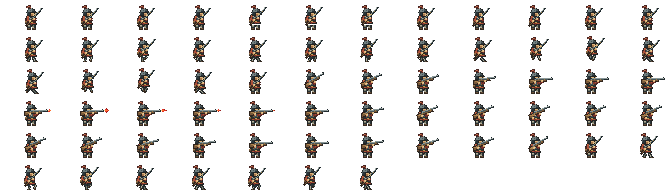
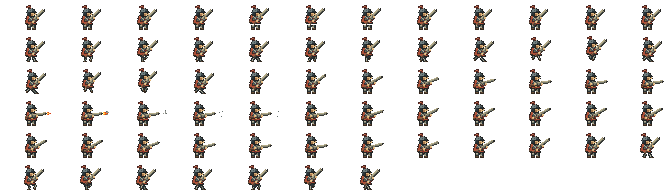
feat: new long handcannon musket visuals + fix release accounting (#27 correction)
v9.14.23 版本账更正：新长火铳美术（Codex handcannon-integration-20260922
的 67 帧动作+7×3 短尾焰弹丸+新枪架/掉落道具贴图+五帧枪口焰）此前只存
在于 Codex 工作树未提交改动中，未随 7 个 PR 合并进入 v9.14.23——本
提交将其正式入账。

- MusketeerAtlas.png / MusketeerBullet.png / MusketeerGun.png（二进制资产）
- MusketeerAnimation.cs（67 帧动作表+Aim 枪口 (47,17)+后坐 (46,17)）
- MusketeerCombat.cs（弹丸 7×3/pivot 弹头中心/短尾焰为静态纯视觉）
- musketeer-runtime 套件 111/0 验证（AnimationTests+CombatTests+Fixture 同步）

版本 9.14.24（patch +1=发布账目更正）。

diff --git a/il2cpp/MusketeerAnimation.cs b/il2cpp/MusketeerAnimation.cs
@@ -1,6 +1,6 @@
 // 火铳手·自有动画状态（runtime slice，纯逻辑：无 Unity 依赖、无原生调用、无分配）。
 //
-// 权威数据 = artifacts/musketeer/20260917-red-muzzle/atlas.json（用户已确认 v8 外观 + 红焰 5 帧，67 帧 12x6、
+// 权威数据 = artifacts/musketeer-long-handcannon-20260922/v6-final/atlas.json（用户已确认长火铳外观 + 参考 GIF 短焰散烟 5 帧，67 帧 12x6、
 // 单格 56x32、PPU 32、脚点 pivot (31,2)）。本文件把清单里的帧区间/时长/holds/锚点抄成
 // 编译期常量（"copied approved keys, not missing anchors"：67 个 key 的 rearGrip/frontGrip/
 // muzzle/torsoLift 全部在表里，测试逐项与清单值核对）。
@@ -12,7 +12,7 @@
 //   动作真实进入/控制器替换时重置采样原点；非法采样（NaN/±Inf/无 clip 长度）→ 挂起自有渲染。
 // * Idle：elapsed-native-stand-seconds；Idleness=0（原生 Stand 相位冻结）时不累计。
 // * fire：确认真实射击时刻 t0 → 显示 Fire 0.25s（后坐含在 clip 内，不是单独动作），
-//   出膛位置取「已举枪」的 Aim muzzle 像素 [48,14]，不用动画帧。
+//   出膛位置取「已举枪」的 Aim muzzle 像素 [47,17]，不用动画帧。
 // * reload：t0+0.25 起；window = min(1.4, max(0, nextEligibleShotTime-(t0+0.25)))；
 //   authoredSeconds = clamp((now-t0-0.25)/window,0,1)×1.4；window=0 直接跳过 Reload；
 //   Reload 完成停在 Aim。动画绝不缩短或延长玩法冷却（冷却由 runtime 的显式时间闸决定）。
@@ -113,7 +113,7 @@ internal readonly struct MusketeerAnchor
     internal byte TorsoLift { get; }
 }
 
-/// <summary>atlas 布局与时钟常量（artifacts/musketeer/20260917-red-muzzle/atlas.json，v8 定稿）。</summary>
+/// <summary>atlas 布局与时钟常量（artifacts/musketeer-long-handcannon-20260922/v6-final/atlas.json，长火铳定稿）。</summary>
 internal static class MusketeerAtlas
 {
     internal const int Columns = 12;
@@ -142,9 +142,9 @@ internal static class MusketeerAtlas
     internal const int LowerFirstFrame = 53;
     internal const int RetreatFirstFrame = 59;
 
-    /// <summary>已举枪枪口像素（Aim key [48,14]）：出膛原点来源，绝不使用动画帧或原生 2.5 偏移。</summary>
-    internal const int PreparedMuzzlePixelX = 48;
-    internal const int PreparedMuzzlePixelY = 14;
+    /// <summary>已举枪枪口像素（Aim key [47,17]）：出膛原点来源，绝不使用动画帧或原生 2.5 偏移。</summary>
+    internal const int PreparedMuzzlePixelX = 47;
+    internal const int PreparedMuzzlePixelY = 17;
 
     /// <summary>以真实游戏秒为单位的枪械动作时长（清单 duration）。</summary>
     internal const double FireSeconds = 0.25;
@@ -180,86 +180,95 @@ internal static class MusketeerAtlas
 
     /// <summary>
     /// 67 个 key 的锚点（清单逐帧值，按帧号 0..66 升序）。索引即 atlas 帧号。
-    /// 运行时只用到 [48,14]（已举枪枪口）与 torsoLift；其余是契约完整性（测试核对清单值）。
+    /// 运行时只用到 [47,17]（已举枪枪口）与 torsoLift；其余是契约完整性（测试核对清单值）。
     /// </summary>
     internal static readonly MusketeerAnchor[] Anchors =
     {
         // Idle 0..11
-        new MusketeerAnchor(29, 20, 33, 18, 41, 8, 0),
-        new MusketeerAnchor(29, 20, 33, 18, 41, 8, 0),
-        new MusketeerAnchor(29, 20, 33, 18, 41, 8, 0),
-        new MusketeerAnchor(29, 20, 33, 18, 41, 8, 0),
-        new MusketeerAnchor(29, 19, 33, 17, 41, 7, 1),
-        new MusketeerAnchor(29, 19, 33, 17, 41, 7, 1),
-        new MusketeerAnchor(29, 19, 33, 17, 41, 7, 1),
-        new MusketeerAnchor(29, 20, 33, 18, 41, 8, 0),
-        new MusketeerAnchor(28, 20, 32, 18, 40, 8, 0),
-        new MusketeerAnchor(28, 20, 32, 18, 40, 8, 0),
-        new MusketeerAnchor(29, 20, 33, 18, 41, 8, 0),
-        new MusketeerAnchor(29, 20, 33, 18, 41, 8, 0),
+        new MusketeerAnchor(32, 21, 37, 17, 44, 9, 0),
+        new MusketeerAnchor(32, 21, 37, 17, 44, 9, 0),
+        new MusketeerAnchor(32, 21, 37, 17, 44, 9, 0),
+        new MusketeerAnchor(32, 21, 37, 17, 44, 9, 0),
+        new MusketeerAnchor(32, 20, 37, 16, 44, 8, 1),
+        new MusketeerAnchor(32, 20, 37, 16, 44, 8, 1),
+        new MusketeerAnchor(32, 20, 37, 16, 44, 8, 1),
+        new MusketeerAnchor(32, 21, 37, 17, 44, 9, 0),
+        new MusketeerAnchor(31, 21, 36, 17, 43, 9, 0),
+        new MusketeerAnchor(31, 21, 36, 17, 43, 9, 0),
+        new MusketeerAnchor(32, 21, 37, 17, 44, 9, 0),
+        new MusketeerAnchor(32, 21, 37, 17, 44, 9, 0),
+
         // Walk 12..19
-        new MusketeerAnchor(29, 20, 33, 18, 41, 8, 0),
-        new MusketeerAnchor(29, 20, 33, 18, 41, 8, 0),
-        new MusketeerAnchor(30, 19, 34, 17, 42, 7, 1),
-        new MusketeerAnchor(29, 20, 33, 18, 41, 8, 0),
-        new MusketeerAnchor(29, 20, 33, 18, 41, 8, 0),
-        new MusketeerAnchor(29, 20, 33, 18, 41, 8, 0),
-        new MusketeerAnchor(28, 19, 32, 17, 40, 7, 1),
-        new MusketeerAnchor(29, 20, 33, 18, 41, 8, 0),
+        new MusketeerAnchor(32, 21, 37, 17, 44, 9, 0),
+        new MusketeerAnchor(32, 21, 37, 17, 44, 9, 0),
+        new MusketeerAnchor(33, 20, 38, 16, 45, 8, 1),
+        new MusketeerAnchor(32, 21, 37, 17, 44, 9, 0),
+        new MusketeerAnchor(32, 21, 37, 17, 44, 9, 0),
+        new MusketeerAnchor(32, 21, 37, 17, 44, 9, 0),
+        new MusketeerAnchor(31, 20, 36, 16, 43, 8, 1),
+        new MusketeerAnchor(32, 21, 37, 17, 44, 9, 0),
+
         // Run 20..27
-        new MusketeerAnchor(30, 20, 34, 18, 42, 8, 0),
-        new MusketeerAnchor(31, 19, 35, 17, 43, 7, 1),
-        new MusketeerAnchor(31, 18, 35, 16, 43, 6, 2),
-        new MusketeerAnchor(30, 20, 34, 18, 42, 8, 0),
-        new MusketeerAnchor(30, 20, 34, 18, 42, 8, 0),
-        new MusketeerAnchor(29, 19, 33, 17, 41, 7, 1),
-        new MusketeerAnchor(29, 18, 33, 16, 41, 6, 2),
-        new MusketeerAnchor(30, 20, 34, 18, 42, 8, 0),
+        new MusketeerAnchor(33, 21, 38, 17, 45, 9, 0),
+        new MusketeerAnchor(34, 20, 39, 16, 46, 8, 1),
+        new MusketeerAnchor(34, 19, 39, 15, 46, 7, 2),
+        new MusketeerAnchor(33, 21, 38, 17, 45, 9, 0),
+        new MusketeerAnchor(33, 21, 38, 17, 45, 9, 0),
+        new MusketeerAnchor(32, 20, 37, 16, 44, 8, 1),
+        new MusketeerAnchor(32, 19, 37, 15, 44, 7, 2),
+        new MusketeerAnchor(33, 21, 38, 17, 45, 9, 0),
+
         // Raise 28..33
-        new MusketeerAnchor(29, 20, 33, 18, 41, 8, 0),
-        new MusketeerAnchor(29, 19, 34, 17, 43, 9, 0),
-        new MusketeerAnchor(29, 19, 35, 17, 44, 10, 0),
-        new MusketeerAnchor(30, 18, 35, 16, 46, 11, 0),
-        new MusketeerAnchor(30, 18, 36, 16, 47, 12, 0),
-        new MusketeerAnchor(30, 17, 37, 16, 48, 14, 0),
+        new MusketeerAnchor(32, 21, 37, 17, 44, 9, 0),
+        new MusketeerAnchor(32, 21, 38, 17, 45, 10, 0),
+        new MusketeerAnchor(31, 20, 38, 18, 46, 12, 0),
+        new MusketeerAnchor(31, 20, 38, 18, 47, 13, 0),
+        new MusketeerAnchor(30, 20, 37, 19, 47, 15, 0),
+        new MusketeerAnchor(30, 19, 37, 19, 47, 17, 0),
+
         // Aim 34..35
-        new MusketeerAnchor(30, 17, 37, 16, 48, 14, 0),
-        new MusketeerAnchor(30, 17, 37, 16, 48, 14, 0),
-        // Fire 36..40（第 5 帧 = old39 的 Aim 锚点副本；红焰 5 帧、每帧 0.05s）
-        new MusketeerAnchor(29, 17, 36, 16, 47, 14, 0),
-        new MusketeerAnchor(29, 17, 36, 16, 47, 14, 0),
-        new MusketeerAnchor(30, 17, 37, 16, 48, 14, 0),
-        new MusketeerAnchor(30, 17, 37, 16, 48, 14, 0),
-        new MusketeerAnchor(30, 17, 37, 16, 48, 14, 0),
+        new MusketeerAnchor(30, 19, 37, 19, 47, 17, 0),
+        new MusketeerAnchor(30, 19, 37, 19, 47, 17, 0),
+
+        // Fire 36..40
+        new MusketeerAnchor(29, 19, 36, 19, 46, 17, 0),
+        new MusketeerAnchor(29, 19, 36, 19, 46, 17, 0),
+        new MusketeerAnchor(30, 19, 37, 19, 47, 17, 0),
+        new MusketeerAnchor(30, 19, 37, 19, 47, 17, 0),
+        new MusketeerAnchor(30, 19, 37, 19, 47, 17, 0),
+
         // Reload 41..52
-        new MusketeerAnchor(30, 17, 37, 16, 48, 14, 0),
-        new MusketeerAnchor(30, 18, 36, 16, 46, 12, 0),
-        new MusketeerAnchor(29, 19, 35, 17, 45, 10, 0),
-        new MusketeerAnchor(30, 20, 35, 17, 44, 10, 0),
-        new MusketeerAnchor(28, 21, 35, 17, 44, 10, 0),
-        new MusketeerAnchor(27, 22, 35, 17, 44, 10, 0),
-        new MusketeerAnchor(29, 21, 35, 17, 44, 10, 0),
-        new MusketeerAnchor(31, 20, 35, 17, 44, 10, 0),
-        new MusketeerAnchor(32, 18, 35, 17, 44, 10, 0),
-        new MusketeerAnchor(30, 18, 36, 16, 46, 11, 0),
-        new MusketeerAnchor(30, 17, 36, 16, 47, 13, 0),
-        new MusketeerAnchor(30, 17, 37, 16, 48, 14, 0),
+        new MusketeerAnchor(30, 19, 37, 19, 47, 17, 0),
+        new MusketeerAnchor(31, 20, 38, 19, 47, 14, 0),
+        new MusketeerAnchor(31, 20, 38, 18, 46, 12, 0),
+        new MusketeerAnchor(30, 20, 38, 18, 46, 12, 0),
+        new MusketeerAnchor(28, 21, 38, 18, 46, 12, 0),
+        new MusketeerAnchor(27, 22, 38, 18, 46, 12, 0),
+        new MusketeerAnchor(29, 21, 38, 18, 46, 12, 0),
+        new MusketeerAnchor(31, 20, 38, 18, 46, 12, 0),
+        new MusketeerAnchor(32, 18, 38, 18, 46, 12, 0),
+        new MusketeerAnchor(31, 20, 38, 18, 47, 14, 0),
+        new MusketeerAnchor(30, 20, 37, 19, 47, 16, 0),
+        new MusketeerAnchor(30, 19, 37, 19, 47, 17, 0),
+
         // Lower 53..58
-        new MusketeerAnchor(30, 17, 37, 16, 48, 14, 0),
-        new MusketeerAnchor(30, 18, 36, 16, 47, 12, 0),
-        new MusketeerAnchor(30, 18, 35, 16, 46, 11, 0),
-        new MusketeerAnchor(29, 19, 35, 17, 44, 10, 0),
-        new MusketeerAnchor(29, 19, 34, 17, 43, 9, 0),
-        new MusketeerAnchor(29, 20, 33, 18, 41, 8, 0),
-        // Retreat 59..66（未接线）
-        new MusketeerAnchor(28, 20, 32, 18, 40, 8, 0),
-        new MusketeerAnchor(28, 20, 32, 18, 40, 8, 0),
-        new MusketeerAnchor(29, 19, 33, 17, 41, 7, 1),
-        new MusketeerAnchor(28, 20, 32, 18, 40, 8, 0),
-        new MusketeerAnchor(28, 20, 32, 18, 40, 8, 0),
-        new MusketeerAnchor(28, 20, 32, 18, 40, 8, 0),
-        new MusketeerAnchor(27, 19, 31, 17, 39, 7, 1),
-        new MusketeerAnchor(28, 20, 32, 18, 40, 8, 0),
+        new MusketeerAnchor(30, 19, 37, 19, 47, 17, 0),
+        new MusketeerAnchor(30, 20, 37, 19, 47, 15, 0),
+        new MusketeerAnchor(31, 20, 38, 18, 47, 13, 0),
+        new MusketeerAnchor(31, 20, 38, 18, 46, 12, 0),
+        new MusketeerAnchor(32, 21, 38, 17, 45, 10, 0),
+        new MusketeerAnchor(32, 21, 37, 17, 44, 9, 0),
+
+        // Retreat 59..66
+        new MusketeerAnchor(31, 21, 36, 17, 43, 9, 0),
+        new MusketeerAnchor(31, 21, 36, 17, 43, 9, 0),
+        new MusketeerAnchor(32, 20, 37, 16, 44, 8, 1),
+        new MusketeerAnchor(31, 21, 36, 17, 43, 9, 0),
+        new MusketeerAnchor(31, 21, 36, 17, 43, 9, 0),
+        new MusketeerAnchor(31, 21, 36, 17, 43, 9, 0),
+        new MusketeerAnchor(30, 20, 35, 16, 42, 8, 1),
+        new MusketeerAnchor(31, 21, 36, 17, 43, 9, 0),
+
     };
 
     internal static bool TryGetClip(MusketeerAction action, out MusketeerClip clip)
@@ -348,7 +357,7 @@ internal static class MusketeerAtlas
         localY = (CellHeight - pixelY - 0.5f - PivotPixelY) / PixelsPerUnit;
     }
 
-    /// <summary>已举枪枪口本地坐标（Aim key [48,14]）。</summary>
+    /// <summary>已举枪枪口本地坐标（Aim key [47,17]）。</summary>
     internal static void PreparedMuzzleLocal(out float localX, out float localY)
         => AnchorToLocal(PreparedMuzzlePixelX, PreparedMuzzlePixelY, out localX, out localY);
 }

diff --git a/il2cpp/MusketeerCombat.cs b/il2cpp/MusketeerCombat.cs
@@ -4,7 +4,7 @@
 // 1. 原生箭的**无条件压制**入口：Operator 的 ArrowAttack.FireArrowInternal prefix 调
 //    <see cref="MusketeerCombat.TryHandleShot"/>。活动火铳手（身份 + 战斗包已装）**一律压制**
 //    原生箭（即使目标非法/还在冷却/未装填），绝不出现"火铳手射出弓矢"。
-// 2. 自有直线子弹：显式时间闸 + 合法目标 → 从「已举枪」Aim 枪口锚点 [48,14] 出膛；
+// 2. 自有直线子弹：显式时间闸 + 合法目标 → 从「已举枪」Aim 枪口锚点 [47,17] 出膛；
 //    默认平飞（敌方/其它目标永远水平），**仅**合法鹿且枪口水平线不穿它自己的真实 Collider2D 时，
 //    朝该碰撞体中部做一次固定直线微调（实际 bounds 计算、无 homing/曲线/加射程——2.4 Greek 鹿
 //    低于枪口线，普通世界本来可平射命中）；有限射程/寿命、命中最近有效目标即停（兔/鸟等小动物完全透明）。
@@ -840,9 +840,9 @@ internal static class MusketeerCombat
     /// <summary>鹿相关被动事件日志上限（每世界前 N 条；换世界重置，绝不每帧刷屏、无全场扫描）。</summary>
     private const int MaxDeerLogsPerWorld = 8;
 
-    /// <summary>Operator 提供的弹丸贴图（5x3、Point、PPU32、pivot 居中）。</summary>
+    /// <summary>Operator 提供的弹丸贴图（7x3、Point、PPU32、pivot 锚在弹头中心；短尾焰为静态 sprite 纯视觉，不新增灼烧伤害或粒子）。</summary>
     private const string BulletResourceName = "KingdomEnhancedMod.MusketeerBullet.png";
-    private const int BulletSpriteWidth = 5;
+    private const int BulletSpriteWidth = 7;
     private const int BulletSpriteHeight = 3;
     private const float BulletSpritePixelsPerUnit = 32f;
 
@@ -1399,7 +1399,7 @@ internal static class MusketeerCombat
     }
 
     /// <summary>
-    /// 出膛原点/朝向：已举枪 Aim 枪口锚点 [48,14] → 角色本地 → 世界（TransformPoint 自带朝向符号）；
+    /// 出膛原点/朝向：已举枪 Aim 枪口锚点 [47,17] → 角色本地 → 世界（TransformPoint 自带朝向符号）；
     /// 锚点本地偏移乘共用外观缩放 <see cref="MusketeerAtlas.AppearanceScale"/>（与自有 sprite 的
     /// localScale 同源：出膛点与所见的人物+手持枪严格一致）；翻转沿用原生 renderer.flipX 的符号修正，
     /// 绝不使用原生 2.5 前移或别的硬编码偏移。
@@ -1871,7 +1871,8 @@ internal static class MusketeerCombat
     }
 
     /// <summary>
-    /// 弹丸贴图（Operator 嵌入的 5x3、Point、PPU32、pivot 居中）：惰性解码一次；
+    /// 弹丸贴图（Operator 嵌入的 7x3、Point、PPU32、pivot 锚在弹头中心 x5.5，尾焰占 x0..4 为静态 sprite 纯视觉，
+    /// 不新增灼烧伤害或粒子；逻辑 bullet.Position 仍在弹头中心）：惰性解码一次；
     /// 尺寸/内容不符或读取失败 → 整块不可用（fail-closed，调用方不构造弹丸）。
     /// </summary>
     private static bool EnsureBulletSprite()
@@ -1926,7 +1927,7 @@ internal static class MusketeerCombat
                 texture.wrapMode = TextureWrapMode.Clamp;
                 texture.anisoLevel = 0;
                 _bulletSprite = Sprite.Create(texture, new Rect(0f, 0f, BulletSpriteWidth, BulletSpriteHeight),
-                    new Vector2(0.5f, 0.5f), BulletSpritePixelsPerUnit, 0u, SpriteMeshType.FullRect);
+                    new Vector2(5.5f / BulletSpriteWidth, 0.5f), BulletSpritePixelsPerUnit, 0u, SpriteMeshType.FullRect);
                 if (_bulletSprite == null)
                 {
                     DestroyQuietly(texture);

diff --git a/tests/musketeer-runtime/AnimationTests.cs b/tests/musketeer-runtime/AnimationTests.cs
@@ -12,7 +12,7 @@ namespace MusketeerRuntimeTests
         internal static void Run()
         {
             Case.Run("clip table matches the approved manifest (67 frames, holds, loops)", ClipTableMatchesManifest);
-            Case.Run("atlas anchors carry all 67 keys incl. prepared muzzle [48,14]", AnchorsMatchManifest);
+            Case.Run("atlas anchors carry all 67 keys incl. prepared muzzle [47,17]", AnchorsMatchManifest);
             Case.Run("muzzle pixel converts to actor-local coordinates", MuzzleAnchorConversion);
             Case.Run("idle clock uses authored holds and wraps at 4.81s", IdleHoldsAndWrap);
             Case.Run("locomotion phase uses unwrapped nt*clipLength, not Fraction first", LocomotionGreekWrap);
@@ -72,13 +72,13 @@ namespace MusketeerRuntimeTests
         {
             Check.Equal(67, MusketeerAtlas.Anchors.Length, "anchors cover every key");
             MusketeerAnchor aim = MusketeerAtlas.Anchors[35];
-            Check.Equal((byte)48, aim.MuzzleX, "aim muzzle x");
-            Check.Equal((byte)14, aim.MuzzleY, "aim muzzle y");
+            Check.Equal((byte)47, aim.MuzzleX, "aim muzzle x");
+            Check.Equal((byte)17, aim.MuzzleY, "aim muzzle y");
             MusketeerAnchor idle5 = MusketeerAtlas.Anchors[5];
             Check.Equal((byte)1, idle5.TorsoLift, "idle breath torso lift");
-            Check.Equal((byte)29, idle5.RearGripX, "idle breath rear grip");
+            Check.Equal((byte)32, idle5.RearGripX, "idle breath rear grip");
             MusketeerAnchor reload6 = MusketeerAtlas.Anchors[47];
-            Check.Equal((byte)44, reload6.MuzzleX, "reload muzzle");
+            Check.Equal((byte)46, reload6.MuzzleX, "reload muzzle");
             Check.True(MusketeerAtlas.FrameToCell(66, out int column, out int row), "frame 66 maps to a cell");
             Check.Equal(6, column, "frame 66 column");
             Check.Equal(5, row, "frame 66 row");
@@ -88,10 +88,10 @@ namespace MusketeerRuntimeTests
         private static void MuzzleAnchorConversion()
         {
             MusketeerAtlas.PreparedMuzzleLocal(out float x, out float y);
-            Check.Near((48d + 0.5d - 31d) / 32d, x, 1e-6d, "muzzle local x");
-            Check.Near((32d - 14d - 0.5d - 2d) / 32d, y, 1e-6d, "muzzle local y");
-            Check.Near(0.546875d, x, 1e-6d, "muzzle local x value");
-            Check.Near(0.484375d, y, 1e-6d, "muzzle local y value");
+            Check.Near((47d + 0.5d - 31d) / 32d, x, 1e-6d, "muzzle local x");
+            Check.Near((32d - 17d - 0.5d - 2d) / 32d, y, 1e-6d, "muzzle local y");
+            Check.Near(0.515625d, x, 1e-6d, "muzzle local x value");
+            Check.Near(0.390625d, y, 1e-6d, "muzzle local y value");
         }
 
         private static void IdleHoldsAndWrap()

diff --git a/tests/musketeer-runtime/CombatTests.cs b/tests/musketeer-runtime/CombatTests.cs
@@ -37,6 +37,7 @@ namespace MusketeerRuntimeTests
             Case.Run("one gate one bullet (second native call in the window emits nothing)", OneShotOneBullet);
             Case.Run("a legitimate attempt right after the gate is never swallowed", LegitimateAttemptNotSwallowed);
             Case.Run("muzzle origin carries the shared appearance scale; facing rules unchanged", MuzzleOriginCarriesAppearanceScale);
+            Case.Run("lower handcannon muzzle clears native ground fallback at native actor height", NativeHeightClearsGroundFallback);
             Case.Run("nearest valid foe wins regardless of callback order", NearestWins);
             Case.Run("friendly unit in front is skipped and does not block", FriendlySkipped);
             Case.Run("flying foe in front is denied and does not block", FlyingSkipped);
@@ -1005,10 +1006,28 @@ namespace MusketeerRuntimeTests
                 "guard/post musketeers may target a portal — native alignment (defence gate keeps night guards free-standing)");
         }
 
+        private static void NativeHeightClearsGroundFallback()
+        {
+            Archer archer = ArmedMusketeer(out _);
+            World.GroundCollider = null;
+            // Actual Archer prefab root local Y, independently checked in native assets.
+            archer.transform.position = new Vector3(0f, 0.875f, 0f);
+            Check.True(MusketeerCombat.TryComputeMuzzle(archer, out Vector2 origin, out _), "muzzle computed");
+            Check.Near(1.2265625d, origin.y, 1e-6d, "new art muzzle at native root and 0.9 scale");
+            Check.True(MusketeerCombat.TryHandleShot(archer.ActiveArrowAttack, archer.gameObject), "shot suppressed and emitted");
+            MusketeerCombat.Tick(0.2f, true);
+            Check.Equal(1, MusketeerCombat.LiveCount, "horizontal bullet survives above fallback with no ground collider");
+            Check.Near(origin.x + 6d, MusketeerCombat.VisualForTests(0).transform.position.x, 1e-4d, "normal speed and range unchanged");
+        }
+
         private static Archer ArmedMusketeer(out GameObject target)
         {
             Fixture.Reset();
             Fixture.NewWorld();
+            // This synthetic scene places actor feet at y=0.5. Give it a matching
+            // ground plane; otherwise the native-world fallback 0.875 incorrectly
+            // puts the new lower muzzle below ground in range/reentrancy tests.
+            Fixture.SetGroundTop(0.5f);
             Fixture.InstallNativeArcherPrefab();
             Archer archer = Fixture.ArmMusketeer();
             target = Fixture.NewEnemy();

diff --git a/tests/musketeer-runtime/Fixture.cs b/tests/musketeer-runtime/Fixture.cs
@@ -92,7 +92,7 @@ namespace MusketeerRuntimeTests
         internal static Archer NewArcher(string name = "archer")
         {
             var go = new GameObject(name);
-            go.transform.position = new Vector3(0f, 0.5f, 0f);   // 真实游戏里脚点在 y≈0.5（0.9 外观缩放后枪口 y≈0.936）
+            go.transform.position = new Vector3(0f, 0.5f, 0f);   // 合成测试脚点；平飞场景应显式安装对应地面，不代表真实世界 root 高度。
             var archer = go.AddComponent<Archer>();
             archer._character = go.AddComponent<Character>();
             archer._damageable = go.AddComponent<Damageable>();

diff --git a/il2cpp/KingdomEnhancedPlugin.cs b/il2cpp/KingdomEnhancedPlugin.cs
@@ -50,7 +50,7 @@ public class KingdomEnhancedPlugin :
         {
             Instance = this;
             // 手动构建戳：日志里区分不同部署（改完记得更新）
-            LogSource.LogInfo($"Plugin {MyPluginInfo.PLUGIN_GUID} v{MyPluginInfo.PLUGIN_VERSION} build=9.14.23 loading...");
+            LogSource.LogInfo($"Plugin {MyPluginInfo.PLUGIN_GUID} v{MyPluginInfo.PLUGIN_VERSION} build=9.14.24 loading...");
 
             // 配置（BepInConfig，替代 UMM Settings）
             ModConfig.Init(Config);
